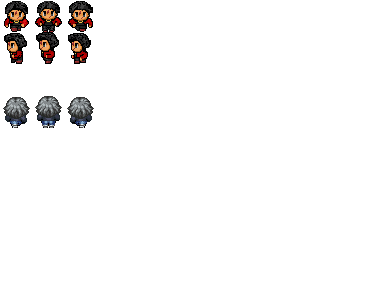
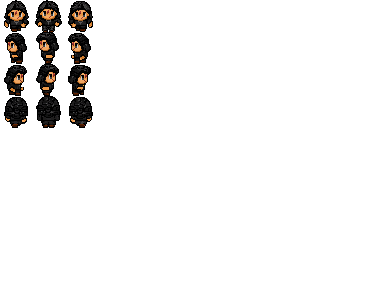
Ajout d'un chara design

Changed region(s): [[0.0, 0.0, 0.25, 0.4286]]

diff --git a/player.py b/player.py
@@ -13,7 +13,7 @@ Ce fichier contient la classe Player pour la gestion du personnage du joueur.
 # ==== Player ====
 class Player(AnimateSprite):
     def __init__(self, game, x, y):
-        super().__init__("assets/player.png")
+        super().__init__("assets/pixil-frame-0.png")
         self.game = game
         self._layer = 12  # plus petit que le joueur
 
